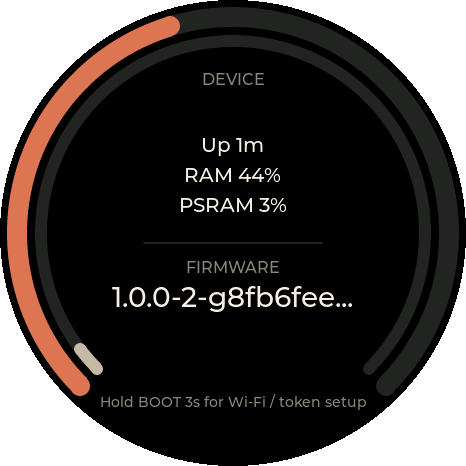
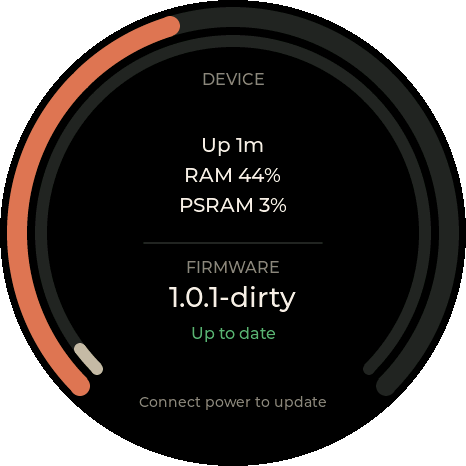
UI: Wi-Fi header shows signal + IP only; BOOT hint on Sound & alerts; updates need USB power (pill disabled on battery); refresh screenshots

Changed region(s): [[0.2403, 0.6009, 0.7511, 0.7511], [0.2103, 0.8412, 0.7811, 0.8712]]

diff --git a/src/ui.cpp b/src/ui.cpp
@@ -34,7 +34,7 @@ static lv_obj_t *lblStatusBar, *lblSessionPct, *lblSessionReset, *lblWeekPct, *l
 static lv_obj_t *arcBatt, *lblBattPct, *lblBattState, *lblBattDetail;
 
 // Info tile
-static lv_obj_t *lblInfo, *arcRam, *arcPsram, *lblFw, *lblFwStatus, *btnUpdate, *lblUpdate;
+static lv_obj_t *lblInfo, *arcRam, *arcPsram, *lblFw, *lblFwStatus, *btnUpdate, *lblUpdate, *lblDeviceHint;
 static bool updateRequested = false;
 static const uint16_t POLL_STEPS[] = {1, 2, 3, 5, 10, 15, 30, 60};   // minutes
 static const int N_POLL_STEPS = sizeof(POLL_STEPS) / sizeof(POLL_STEPS[0]);
@@ -239,11 +239,13 @@ static void build_info(lv_obj_t *t) {
     lv_obj_center(lblUpdate);
     lv_obj_add_flag(btnUpdate, LV_OBJ_FLAG_HIDDEN);
     lv_obj_add_event_cb(btnUpdate, [](lv_event_t *) { updateRequested = true; }, LV_EVENT_CLICKED, NULL);
+    // Greyed out (and not tappable) until USB power is connected.
+    lv_obj_set_style_bg_color(btnUpdate, COL_TRACK, LV_STATE_DISABLED);
+    lv_obj_set_style_text_color(lblUpdate, COL_MUTED, LV_STATE_DISABLED);
 
-
-    lv_obj_t *hint = make_label(t, &lv_font_montserrat_14, COL_MUTED);
-    lv_label_set_text(hint, "Hold BOOT 3s for Wi-Fi / token setup");
-    lv_obj_align(hint, LV_ALIGN_BOTTOM_MID, 0, -56);
+    lblDeviceHint = make_label(t, &lv_font_montserrat_14, COL_MUTED);
+    lv_label_set_text(lblDeviceHint, "");
+    lv_obj_align(lblDeviceHint, LV_ALIGN_BOTTOM_MID, 0, -56);
 }
 
 // Brightness sliders move in 5% steps (slider value = step, 1..20); settings keep the 0-255 level.
@@ -692,6 +694,10 @@ static void build_sound(lv_obj_t *t) {
 
     lv_event_send(sldVol, LV_EVENT_VALUE_CHANGED, NULL);
     lv_event_send(sldAlert, LV_EVENT_VALUE_CHANGED, NULL);
+
+    lv_obj_t *hint = make_label(t, &lv_font_montserrat_14, COL_MUTED);
+    lv_label_set_text(hint, "Hold BOOT 3s to set Wi-Fi / token");
+    lv_obj_align(hint, LV_ALIGN_BOTTOM_MID, 0, -40);
 }
 
 static void build_setup_layer() {
@@ -870,7 +876,7 @@ static void update_battery(const BatteryInfo &b) {
     lv_label_set_text(lblBattDetail, d);
 }
 
-static void update_info(const NetStatus &n) {
+static void update_info(const NetStatus &n, const BatteryInfo &b) {
     uint32_t up = millis() / 1000;
     String s = "Up " + fmt_duration(up) + "\n";
     size_t ramTotal = heap_caps_get_total_size(MALLOC_CAP_INTERNAL);
@@ -890,6 +896,8 @@ static void update_info(const NetStatus &n) {
         if (strcmp(lv_label_get_text(lblUpdate), t.c_str()) != 0) lv_label_set_text(lblUpdate, t.c_str());
         lv_obj_add_flag(lblFw, LV_OBJ_FLAG_HIDDEN);
         lv_obj_clear_flag(btnUpdate, LV_OBJ_FLAG_HIDDEN);
+        if (b.vbus) lv_obj_clear_state(btnUpdate, LV_STATE_DISABLED);
+        else lv_obj_add_state(btnUpdate, LV_STATE_DISABLED);
     } else {
         lv_obj_clear_flag(lblFw, LV_OBJ_FLAG_HIDDEN);
         lv_obj_add_flag(btnUpdate, LV_OBJ_FLAG_HIDDEN);
@@ -897,6 +905,9 @@ static void update_info(const NetStatus &n) {
     // Only claim "up to date" once a check has actually succeeded.
     const char *fwStatus = ota_update_available() ? "" : ota_latest_version().isEmpty() ? "" : "Up to date";
     if (strcmp(lv_label_get_text(lblFwStatus), fwStatus) != 0) lv_label_set_text(lblFwStatus, fwStatus);
+
+    const char *hint = !b.vbus ? "Connect power to update" : ota_update_available() ? "Tap Update to install" : "";
+    if (strcmp(lv_label_get_text(lblDeviceHint), hint) != 0) lv_label_set_text(lblDeviceHint, hint);
 }
 
 static void boot_splash_update(const UsageSnapshot &u, const NetStatus &n);
@@ -906,7 +917,7 @@ void ui_update(const UsageSnapshot &u, const BatteryInfo &b, const NetStatus &n)
     update_setup(u, n);
     update_usage(u, b, n);
     update_battery(b);
-    update_info(n);
+    update_info(n, b);
 
 
     // Wi-Fi page ring: signal strength, -90 dBm (empty) .. -50 dBm (full).
@@ -914,9 +925,7 @@ void ui_update(const UsageSnapshot &u, const BatteryInfo &b, const NetStatus &n)
         int pct = constrain((n.rssi + 90) * 100 / 40, 0, 100);
         lv_arc_set_value(arcWifi, pct);
         lv_obj_set_style_arc_color(arcWifi, n.rssi > -67 ? COL_OK : n.rssi > -78 ? COL_WARN : COL_CRIT, LV_PART_INDICATOR);
-        String cap = n.ssid + "  " LV_SYMBOL_BULLET "  " + String(n.rssi) + " dBm";
-        cap.toUpperCase();
-        cap += "\n" + n.ip;
+        String cap = String(n.rssi) + " dBm  " LV_SYMBOL_BULLET "  " + n.ip;
         lv_label_set_text(lblWifiCap, cap.c_str());
     } else {
         lv_arc_set_value(arcWifi, 0);

diff --git a/src/main.cpp b/src/main.cpp
@@ -118,11 +118,7 @@ static void check_quota_alert(const UsageSnapshot &u) {
 // Device page "Update" pill: download and flash the latest release, then restart.
 static void handle_update_request() {
     if (!ui_take_update_request() || !ota_update_available()) return;
-    BatteryInfo b = power_battery();
-    if (!b.vbus && b.present && b.percent < 30) {
-        ui_flash_message(LV_SYMBOL_BATTERY_1 " Charge to 30% or plug in to update");
-        return;
-    }
+    if (!power_battery().vbus) return;   // the pill is disabled on battery; belt and braces
     String v = ota_latest_version();
     ui_show_updating(v.c_str());
     bool ok = ota_run(ui_set_update_progress);

diff --git a/README.md b/README.md
@@ -130,13 +130,15 @@ The time with seconds, and the date.
 | **Alert at X% left** | Beeps and shows a warning when the session or weekly quota left drops to this level. Off, or 5–50%. It alerts once per window and again after that window resets. |
 | **Refresh every** | How often usage is checked: 1, 2, 3, 5, 10, 15, 30 or 60 minutes. The default is 5. |
 
+The hint at the bottom is a reminder that holding **BOOT** for 3 s opens the setup hotspot, where you can change the Wi-Fi or the token.
+
 <br clear="right">
 
 ### Wi-Fi
 
 <img src="docs/images/wifi.png" width="220" align="right" alt="Saved Wi-Fi networks">
 
-- **Top:** the current network, its signal strength and the gadget's IP address.
+- **Top:** signal strength and the gadget's IP address.
 - **Ring:** signal strength. The current network is highlighted in orange in the list.
 - **To forget a network:** tap its **✕**, then tap again within 3 s to confirm. If you forget the network you're connected to, the gadget disconnects and looks for another saved one.
 
@@ -160,6 +162,7 @@ The time with seconds, and the date.
 - **Inner ring:** PSRAM in use.
 - Also uptime and memory use.
 - **Firmware:** the installed version, with "Up to date" once the gadget has checked for a newer release. When one is available, this becomes an **Update to x.y.z** pill. See [Updates](#updates).
+- **Bottom hint:** "Connect power to update" on battery, or "Tap Update to install" when plugged in with an update waiting.
 
 <br clear="right">
 
@@ -168,9 +171,9 @@ The time with seconds, and the date.
 The gadget checks for a new release at startup and then every 6 hours, while it's on Wi-Fi.
 
 - When a newer version is available, the firmware line on the **Device** page becomes an orange **Update to x.y.z** pill.
-- Tap the pill to download and install the update over Wi-Fi. A progress ring shows the download. When it's finished, the gadget restarts on the new version.
+- With USB power connected, tap the pill to download and install the update over Wi-Fi. A progress ring shows the download. When it's finished, the gadget restarts on the new version.
 - Your Wi-Fi networks, token and settings are kept.
-- To update, the gadget must be plugged into USB or have at least 30% battery.
+- USB power must be connected. On battery the pill is greyed out, and the Device page says **Connect power to update**.
 - Don't power it off while updating. If an update fails (e.g. Wi-Fi drops), the gadget keeps running the current version and you can try again.
 
 You can also update from the [web installer](https://markab.github.io/claude-gadget/) over USB without erasing.
